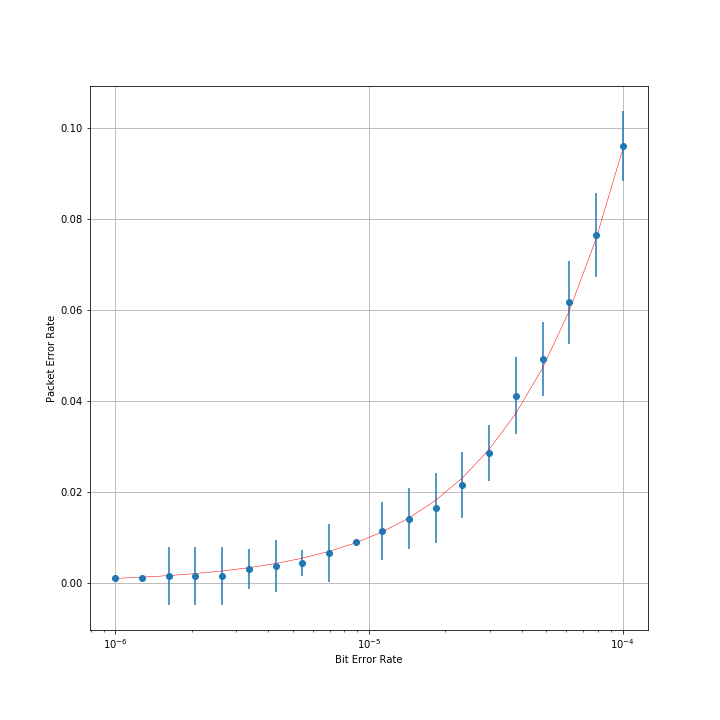
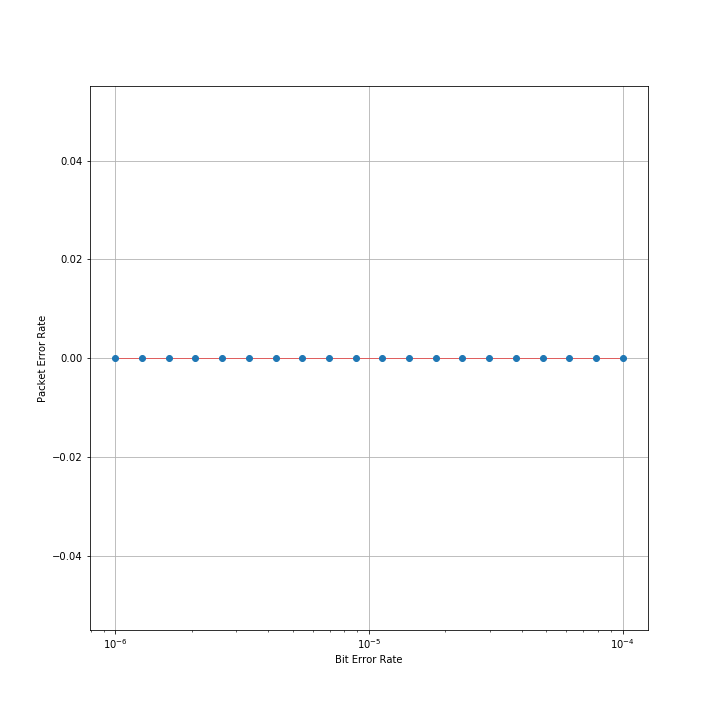
Test Modem with ideal channel

diff --git a/src/parameters/parameters.py b/src/parameters/parameters.py
@@ -38,10 +38,10 @@ class Parameters(object):
         FIXED_CONF  -- Simulate multiple seeds util a confidence interval is
                        reached
     '''
-    simulation_type = SimType.FIXED_CONF
+    simulation_type = SimType.FIXED_SEEDS
     
     # Seeds: used if self.simulation_type == SimType.FIXED_SEEDS
-    seeds_flt = np.linspace(1,10, num = 10)
+    seeds_flt = np.linspace(1,2, num = 10)
     seeds = seeds_flt.astype(int)
     
     # Confidence range: used if self.simulation_type = SimType.FIXED_CONF
@@ -53,15 +53,15 @@ class Parameters(object):
     conf = 0.95
     
     # Number of transmitted packets
-    n_pcks = 1000
+    n_pcks = 10
     
     # Warm-up: number of discarted packets at the beginning of iteration
-    n_warm_up_pcks = 10
+    n_warm_up_pcks = 1
     
     # TRANSMISSION PARAMETERS
     
     # Number of bits per packet
-    n_bits = 500
+    n_bits = 16
     
     # Transmission rate [Mbps]
     tx_rate = 50
@@ -131,10 +131,10 @@ class Parameters(object):
     symbol_pad = False
     
     # RRC Filter span in symbols
-    filter_span = 6
+    filter_span = 2
     
     # RRC Filter rolloff factor
-    roll_off = 0.5
+    roll_off = 0.3
     
     # Symbol time [s]
     symbol_time = 1e-3

diff --git a/src/simulation_thread.py b/src/simulation_thread.py
@@ -93,17 +93,17 @@ class SimulationThread(object):
         """
         # Transmission chain
         pck_tx = self.station.generate_packet()
-#        sym_tx = self.modem.modulate(pck_tx)
+        sym_tx = self.modem.modulate(pck_tx)
 #        sig_tx = self.filter.tx_filter(sym_tx)
         
         # Channel
-        pck_rx = self.chann.propagate(pck_tx)
-#        sym_rx = self.chann.propagate(sym_tx)
+#        pck_rx = self.chann.propagate(pck_tx)
+        sym_rx = self.chann.propagate(sym_tx)
 #        sig_rx = self.chann.propagate(sig_tx)
         
         # Reception chain
 #        sym_rx = self.filter.rx_filter(sig_rx)
-#        pck_rx = self.modem.demodulate(sym_rx)
+        pck_rx = self.modem.demodulate(sym_rx)
         n_errors, pck_error = self.station.calculate_error(pck_rx)
         
         return n_errors, pck_error
